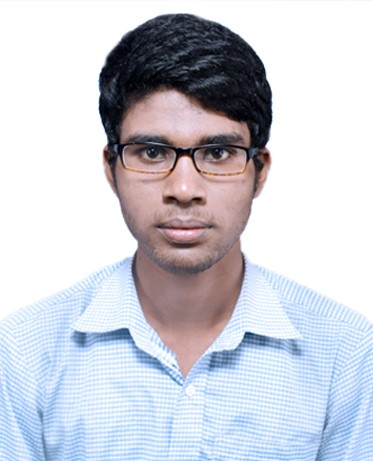
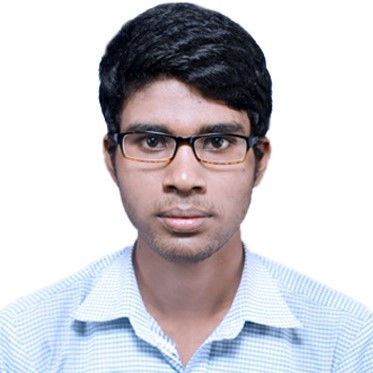
Add files via upload

diff --git a/assets/css/styles.css b/assets/css/styles.css
@@ -8,9 +8,16 @@
 
 /*===== Colores =====*/
 :root{
-  --first-color: #4070F4;
-  --third-color:rgba(31, 168, 192, 0.589);
-  --second-color: #0E2431;
+  --background-color:rgba(198, 220, 223, 0.568);
+  --first-color: #69b9df;
+  --second-color: #07486d;
+  --third-color:rgba(18, 97, 216, 0.555);
+}
+/***icon***/
+:root{
+  --iconsize:25px;
+  --iconpadding:5px;
+  --iconbox:45px;
 }
 
 /*===== Fuente y tipografia =====*/
@@ -113,6 +120,8 @@ img{
 }
 .l-header{
   width: 100%;
+  height: 45px;
+  /* background-color: #d4c6b6; */
   position: fixed;
   top: 0;
   left: 0;
@@ -157,7 +166,7 @@ img{
   width: 100%;
   height: 0.18rem;
   left: 0;
-  top: 2rem;
+  top: 22px;
   background-color: var(--first-color);
 }
 .nav__logo{
@@ -176,7 +185,7 @@ img{
   width: 100%;
   height: 0.18rem;
   left: 0;
-  top: 2rem;
+  top: 22px;
   background-color: var(--first-color);
 }
 
@@ -187,8 +196,11 @@ img{
 
 /*===== HOME =====*/
 .home{
-  height: calc(100vh - 3rem);
+  margin-top: 53px;
+  padding: 10px;
+  height: calc(100vh -3rem);
   row-gap: 1rem;
+  /* background-color: red; */
 }
 .home__data{
   align-self: center;
@@ -201,30 +213,43 @@ img{
   color: var(--first-color);
 }
 .home__social{
+  margin-top: 56px;
   display: flex;
   flex-direction: column;
 }
 .home__social-icon{
+  text-align: center;
+  /* justify-content: center; */
   width: max-content;
+  padding: var(--iconpadding);
   margin-bottom: var(--mb-2);
-  font-size: 1.5rem;
+  font-size: var(--iconsize);
   color: var(--second-color);
+  width: var(--iconbox);
+  height: var(--iconbox); 
+  border-radius: 50%;
+  background-color: var(--background-color);
+  border:2px solid var(--second-color);
+  font-weight: bolder;
 }
 .home__social-icon:hover{
   color: var(--first-color);
 }
 .home__img{
-  padding-top: 0em;
-  position: absolute;
-  right: 0;
+  /* position: absolute; */
+  right: 0 ;
   bottom: 0;
-  width: 265px;
-  height: 296px;
-  border-radius: 10% 50% 50% ;
-  border: 5px solid var(--third-color);
+  width: 295px;
+  height: 295px;
+  border-radius: 10% 50% 50% 50%;
   overflow: hidden;
+  border:5px solid var(--third-color);
 }
+.home__img img{
+  width: 295px;
+  height: 295px;
 
+}
 
 /*BUTTONS*/
 .button{
@@ -241,6 +266,7 @@ img{
 
 /* ===== ABOUT =====*/
 .about__container{
+  /* background-color: red; */
   row-gap: 2rem;
   text-align: center;
 }
@@ -249,18 +275,16 @@ img{
 }
 .about__img{
   justify-self: center;
-  width: 200px;
-  height: 200px;
-  overflow: hidden;
-  border-radius: 50%;
-  border: 5px solid var(--third-color);
 }
 .about__img img{
-  border-radius: .5rem;
+  width: 200px;
+  border-radius: 50%;
+  border: 5px solid var(--third-color);
 }
 
 /* ===== SKILLS =====*/
 .skills__container{
+  /* background-color: red; */
   row-gap: 2rem;
   text-align: center;
 }
@@ -318,6 +342,7 @@ img{
 /* ===== WORK =====*/
 .work__container{
   row-gap: 2rem;
+  /* background-color: red; */
 }
 .work__img{
   box-shadow: 0 4px 25px rgba(14,36,49,.15);
@@ -374,7 +399,47 @@ img{
 }
 
 /* ===== MEDIA QUERIES=====*/
-@media screen and (min-width: 768px){
+@media screen and (max-width: 598px )and (min-width :420px){
+  .home{
+    /* background-color: green; */
+    height: 600px;
+  }
+  .home__img{ 
+    justify-items: auto;
+    position: relative;
+    left:29%;
+    top:-260px;
+    overflow: hidden;
+  }
+  .home__img img{
+    height: 100%;
+    width: 100%;
+  }
+}
+@media screen and (max-width: 768px )and (min-width :586px){
+  .home{
+    /* background-color: aqua; */
+    height: 600px;
+  }
+  .home__data{
+    padding-top: 55px;
+  }
+  .home__img{ 
+    justify-items: auto;
+    position: relative;
+    left:40%;
+    top:-300px;
+    overflow: hidden;
+  }
+  .home__img img{
+    height: 100%;
+    width: 100%;
+
+  }
+
+}
+@media screen and (min-width: 768px) and (min-height: 68px){
+
   body{
     margin: 0;
   }
@@ -391,7 +456,7 @@ img{
   }
 
   .nav{
-    height: calc(var(--header-height) + 1rem);
+    height: calc(var(--header-vh) + 1rem);
   }
   .nav__list{
     display: flex;
@@ -409,10 +474,16 @@ img{
   }
 
   .home{
-    height: 100vh;
+    /* background-color: #2c031b; */
+    height: 700px;
   }
   .home__data{
+    margin-top: 25px;
     align-self: flex-end;
+  }
+  .home__title{
+    font-size: 2rem;
+
   }
   .home__social{
     padding-top: 0;
@@ -425,9 +496,15 @@ img{
     margin-right: var(--mb-4);
   }
   .home__img{
-    width: 437px;
-    height: 437px;
-    bottom: 10%;
+    position: relative;
+    top:-200px;
+    right: -45%;
+    width: 400px;
+    height: 400px;
+  }
+  .home__img img{
+    width: 400px;
+    height: 400px;
   }
 
   .about__container, .skills__container{
@@ -437,6 +514,7 @@ img{
   }
   .about__img img{
     width: 300px;
+    height: 300px;
   }
   .work__container{
     grid-template-columns: repeat(3, 1fr);
@@ -452,11 +530,83 @@ img{
 }
 
 @media screen and (min-width: 1024px){
+  .home{
+    /* background-color: #db821d; */
+    height: 650px;
+  }
   .bd-grid{
     margin-left: auto;
     margin-right: auto;
   }
   .home__img{
-    right: 10%;
+    position: relative;
+    left:50%;
+    top:-300px;
+  }
+  .l-header{
+    padding:10px ;
+  }
+}
+@media screen and (min-width: 1024px) and (min-height:600px){
+  .home{
+    /* background-color: rgba(216, 221, 209, 0.425); */
+    height: 90vh;
+    padding:120px 10px 0px 30px ;
+    /* border-radius: 10px; */
+    /* border-left: 3px  solid red; */
+    
+  }
+  .home__img{
+    position: relative;
+    left:50%;
+    top:-400px;
+  }
+}
+@media screen and (max-height:800px){
+  .home{
+    height: 700px;
+    /* background-color: red; */
+  }
+}
+@media screen and (max-width:419px){
+  .home__img{
+    position: relative;
+    left:82px;
+    top:-280px;
+    width: 250px;
+    height: 250px;
+  }
+  .home__img img{
+    width: 100%;
+    height: 100%;
+  }
+  .home{
+    /* background-color: red; */
+    height: 600px;
+  }
+
+}
+@media screen and (max-width:380px){
+  .home{
+    height:310px;
+  }
+  .bd-grid{
+    width: calc(100% - 1rem);
+  }
+  .home__img{
+    border:0px;
+  }
+  .home__img img{
+    visibility: hidden;
+  }
+  .home__social{
+    padding-top: 0;
+    padding-bottom: 2.5rem;
+    display: flex;
+    flex-direction: row;
+    /* transform: rotate(-90deg); */
+  }
+  .home__social-icon{
+    padding: 12px;
   }
 }
